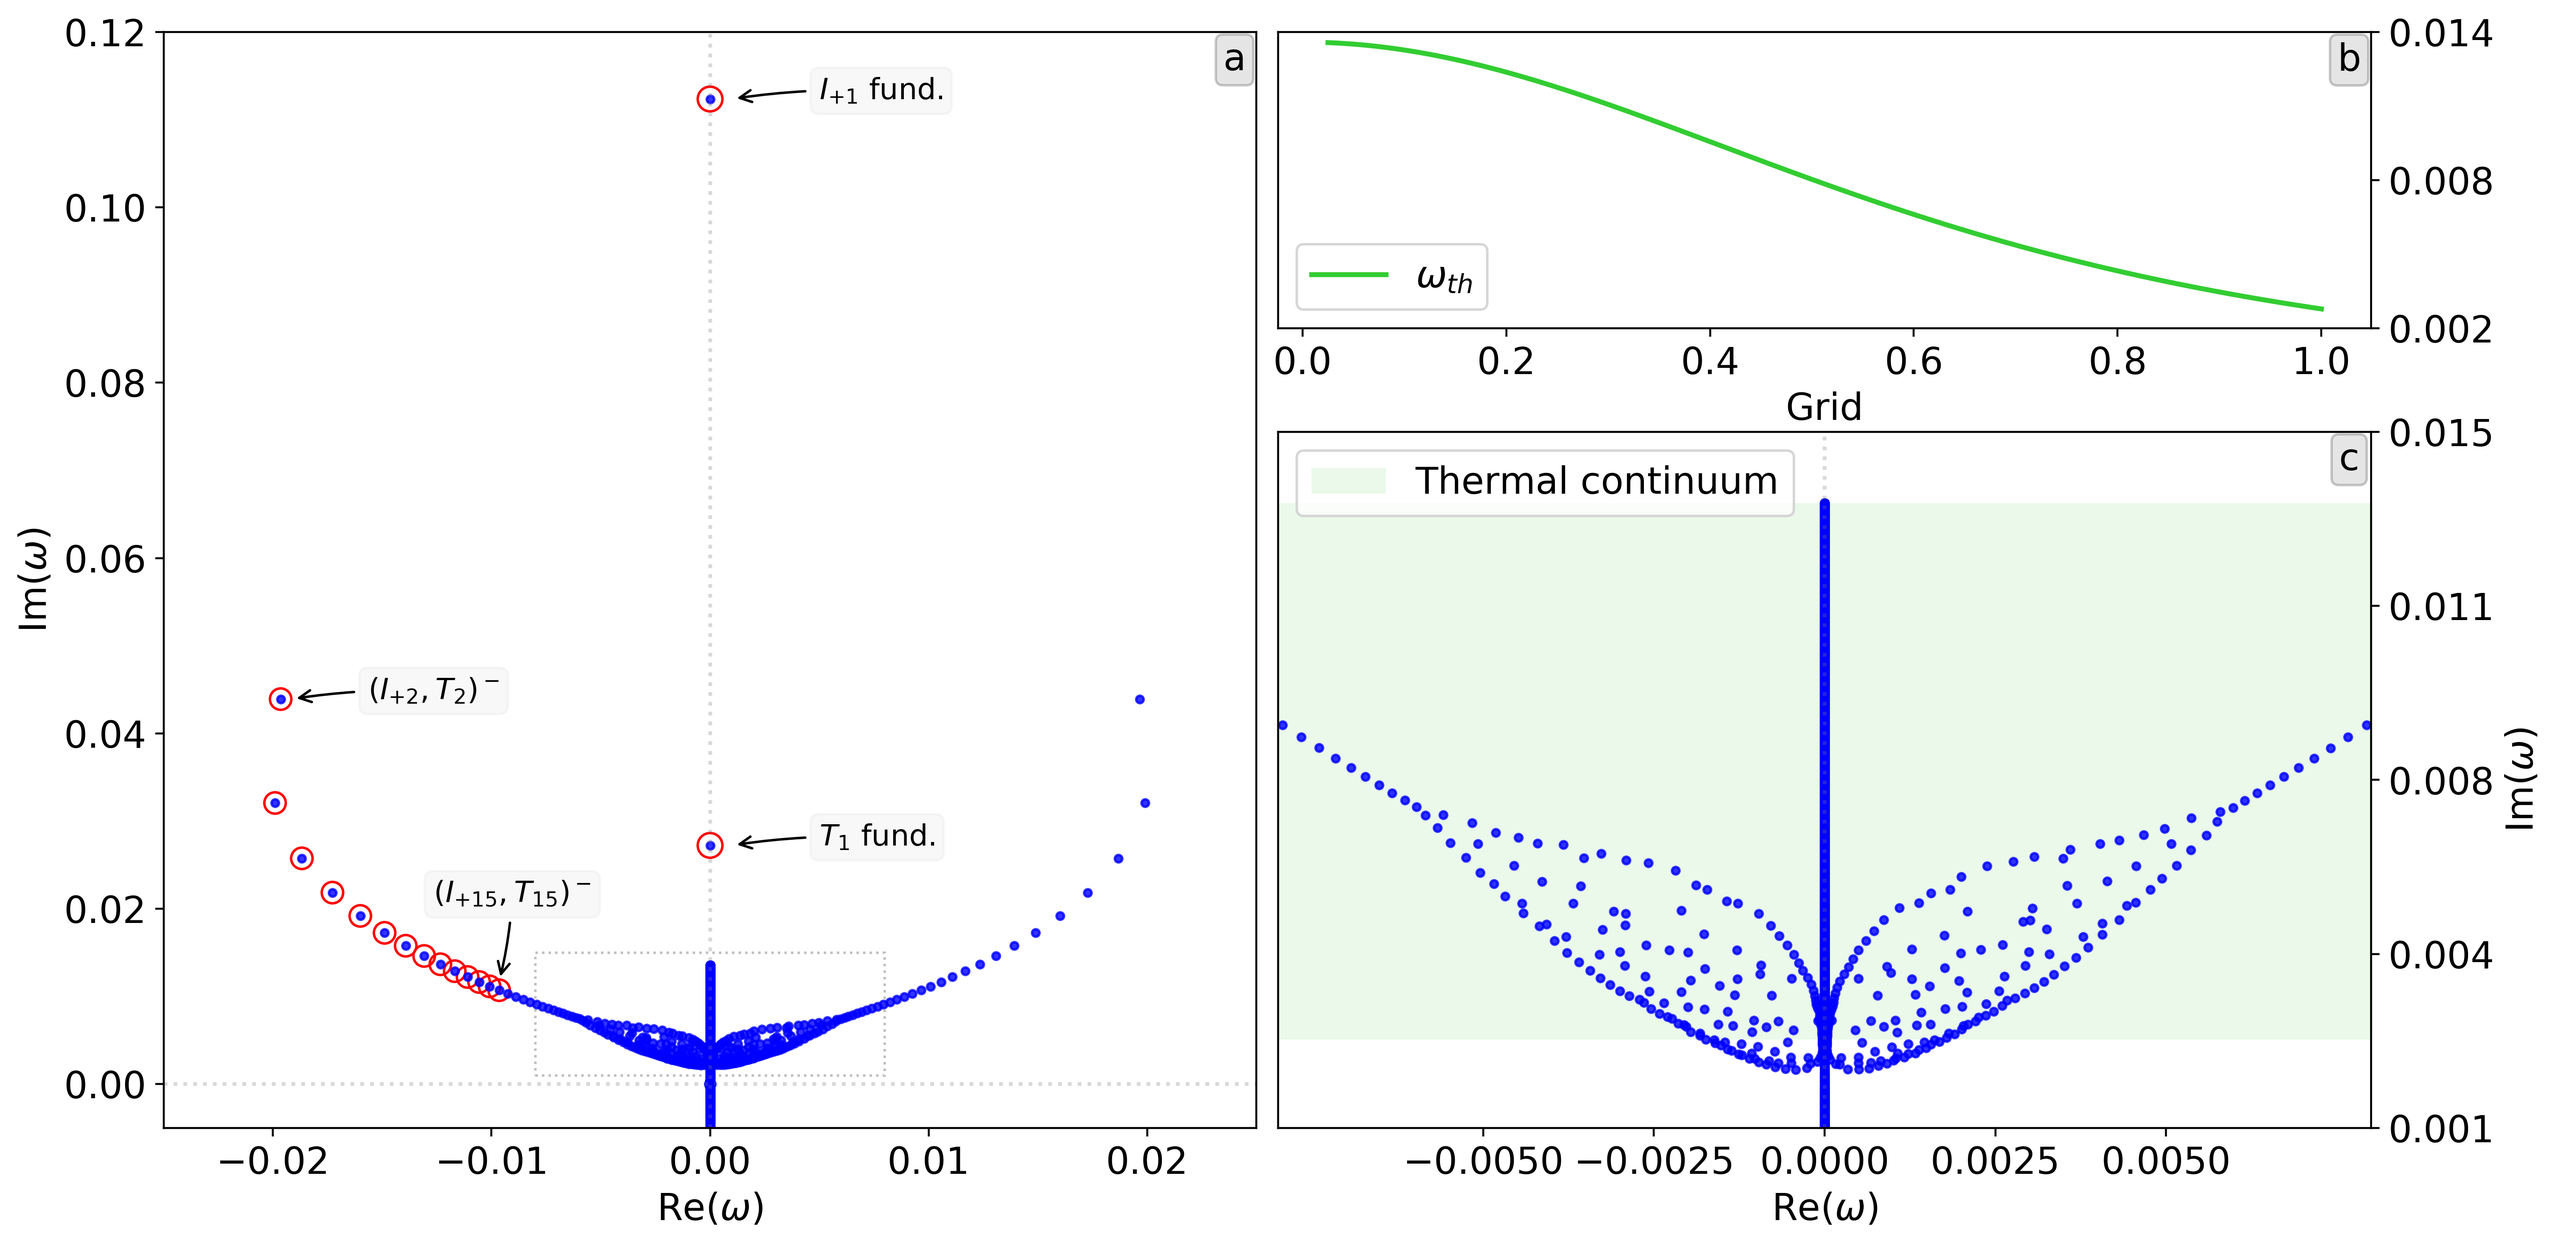
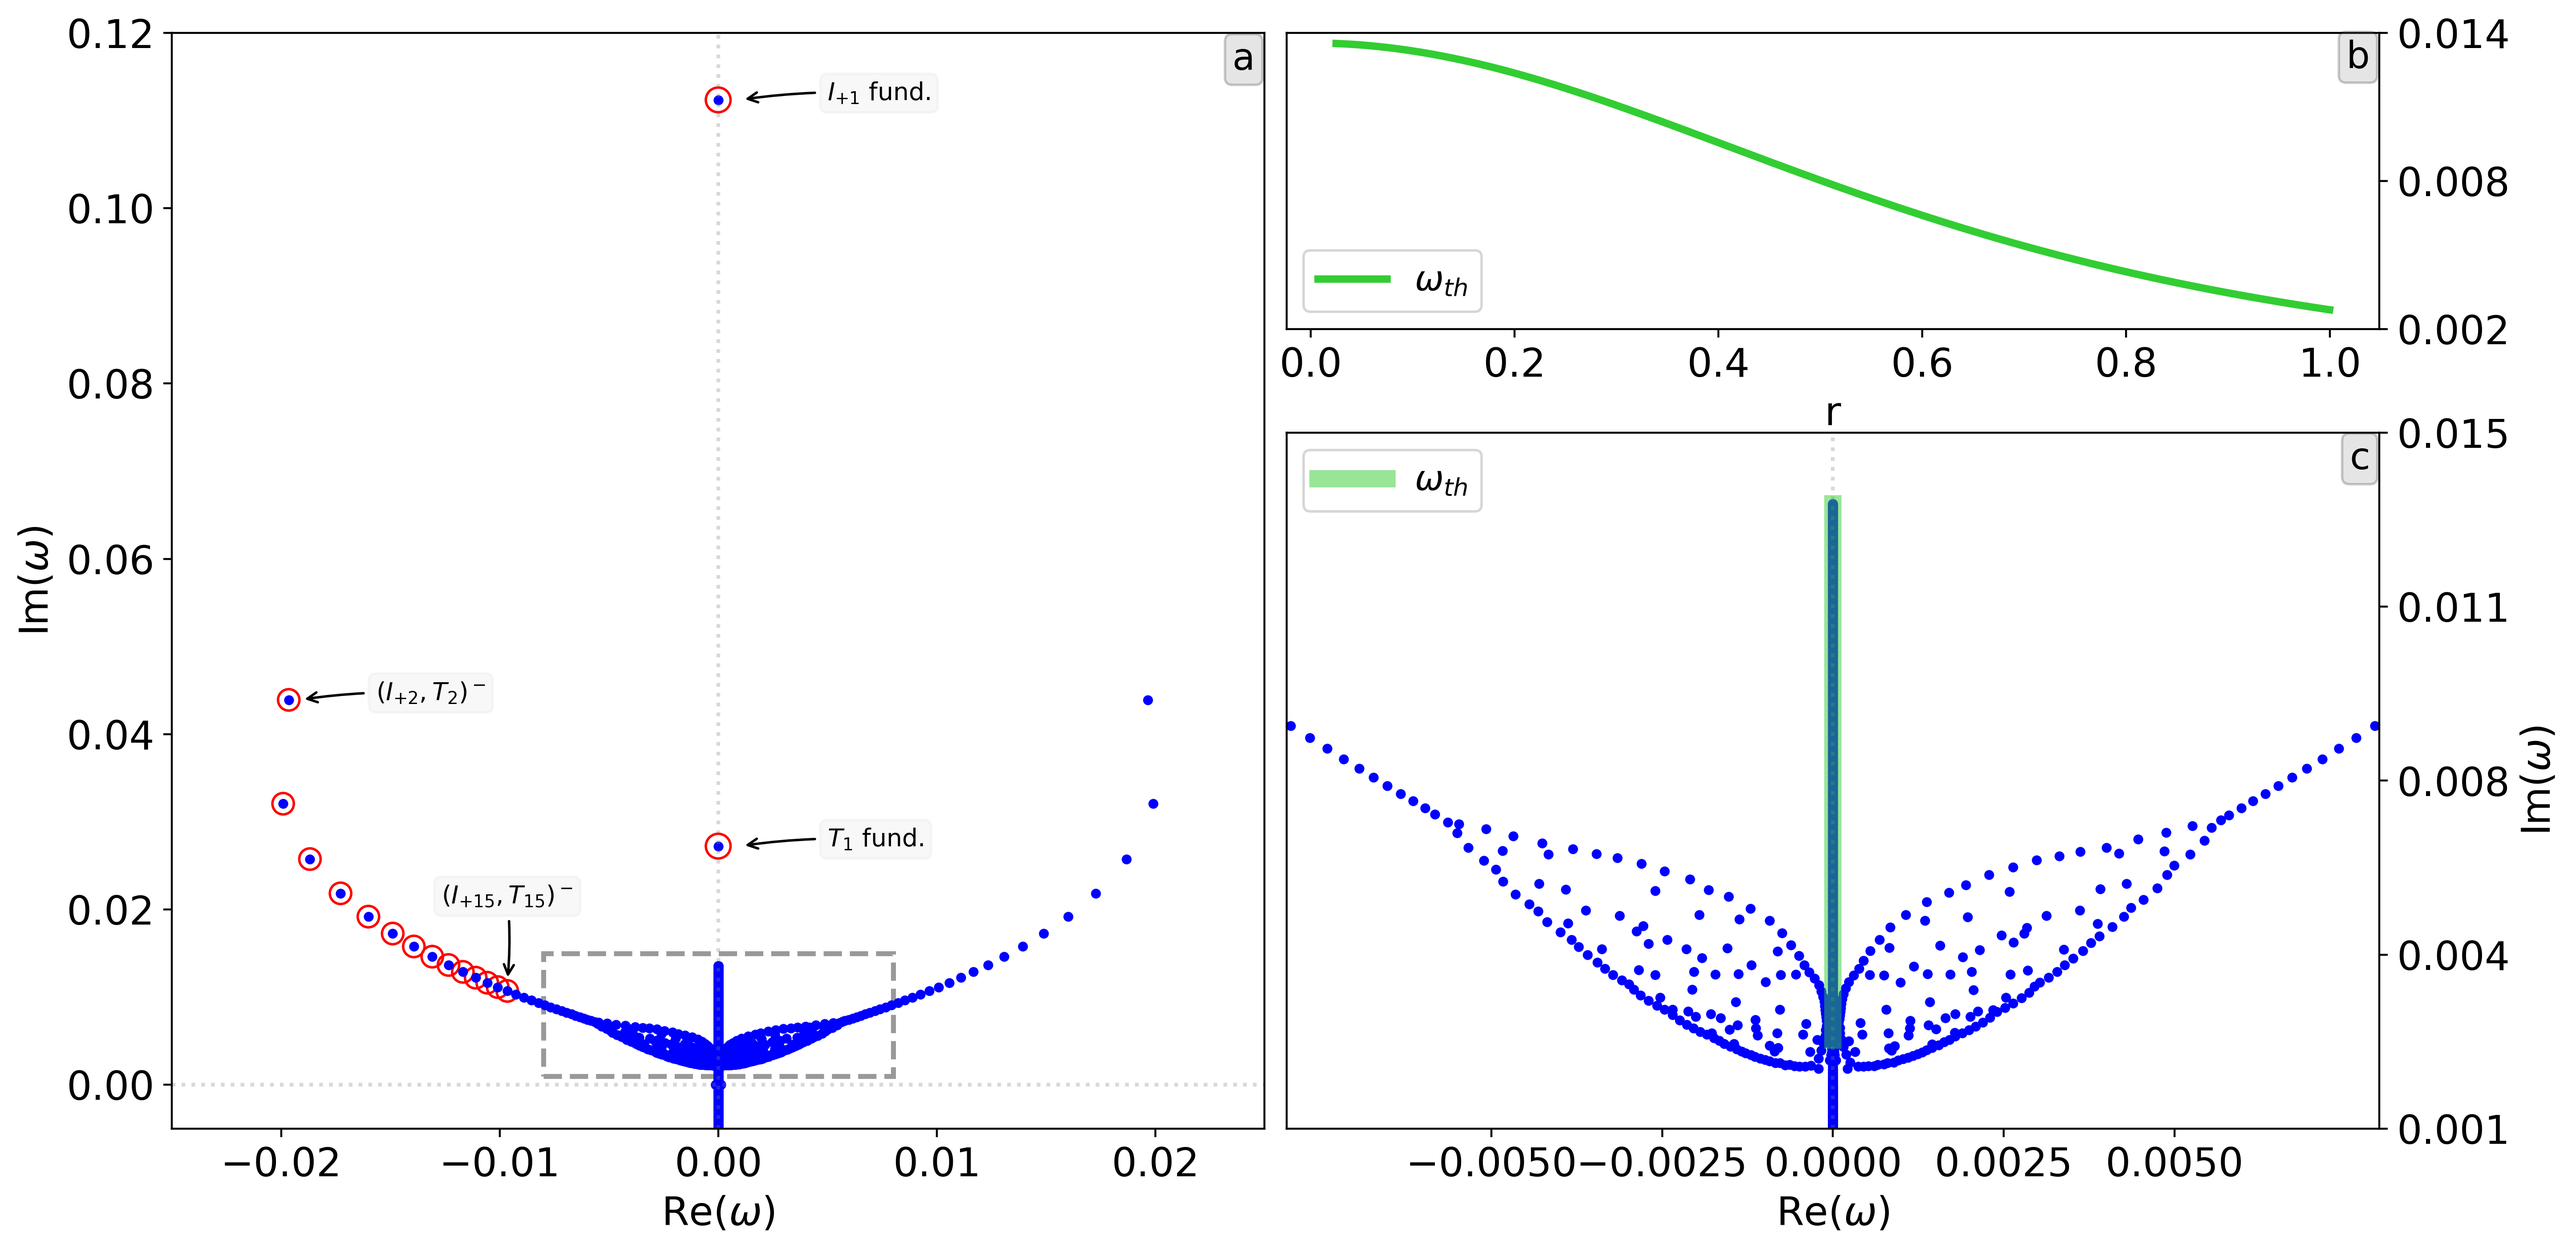
regenerated magnetothermal figure

diff --git a/notebooks/chapter5_figures.py b/notebooks/chapter5_figures.py
@@ -1,3 +1,4 @@
+from matplotlib import ticker
 import numpy as np
 import matplotlib.pyplot as plt
 import matplotlib.patches as patches
@@ -328,9 +329,141 @@ def discrete_alfven_figure():
     )
 
 
+def magnetothermal_figure():
+    filedir = (datadir / "12_magnetothermal/datfiles").resolve()
+    ds = pylbo.load(*sorted(filedir.glob("*.dat")))
+
+    fig, axes = plt.subplots(3, 2, figsize=(16, 8))
+    grid = axes[0, 1].get_gridspec()
+    [ax.remove() for ax in axes[:, 0]]
+    axl = fig.add_subplot(grid[:, 0])
+    [ax.remove() for ax in axes[1:, 1]]
+    axb = fig.add_subplot(grid[1:, 1])
+    axt = axes[0, 1]
+
+    # left plot + bot-right plot
+    for ax in (axl, axb):
+        ax.plot(ds.eigenvalues.real, ds.eigenvalues.imag, ".b")
+        ax.axhline(y=0, linestyle="dotted", color="grey", alpha=0.3)
+        ax.axvline(x=0, linestyle="dotted", color="grey", alpha=0.3)
+        ax.set_xlabel(r"Re($\omega$)")
+        ax.set_ylabel(r"Im($\omega$)")
+    # left plot
+    axl.set_xlim(-0.025, 0.025)
+    axl.set_ylim(-0.005, 0.12)
+    add_panel_label(axl, "a", loc="top right")
+
+    # top-right plot
+    wth = ds.continua["thermal"]
+    axt.plot(
+        ds.grid_gauss, np.imag(wth), lw=3, color="limegreen", label="$\omega_{th}$"
+    )
+    axt.yaxis.tick_right()
+    axt.set_ylim(0.002, 0.014)
+    axt.set_yticks(np.linspace(0.002, 0.014, 3))
+    axt.set_xlabel("r")
+    axt.legend(loc="lower left")
+    add_panel_label(axt, "b", loc="top right")
+
+    # bot-right plot
+    x1, x2, y1, y2 = -0.008, 0.008, 0.001, 0.015
+    patch = patches.Rectangle(
+        (x1, y1),
+        width=(x2 - x1),
+        height=(y2 - y1),
+        facecolor="none",
+        edgecolor="grey",
+        linestyle="dashed",
+        alpha=0.8,
+        lw=2,
+    )
+    axl.add_patch(patch)
+    axb.plot(
+        np.real(wth),
+        np.imag(wth),
+        color="limegreen",
+        lw=7,
+        alpha=0.5,
+        label=r"$\omega_{th}$",
+    )
+    axb.legend(loc="upper left")
+    axb.yaxis.set_label_position("right")
+    axb.yaxis.tick_right()
+    axb.set_xlim(x1, x2)
+    axb.set_ylim(y1, y2)
+    axb.set_xticks(np.linspace(-0.005, 0.005, 5))
+    axb.set_yticks(np.linspace(y1, y2, 5))
+    axb.yaxis.set_major_formatter(ticker.FormatStrFormatter("%.3f"))
+    add_panel_label(axb, text="c", loc="top right")
+
+    # annotating eigenvalues
+    on_axis_guess = [0.112j, 0.027j]
+    _, on_axis_evs = ds.get_nearest_eigenvalues(ev_guesses=on_axis_guess)
+    # annotate the on-axis ones with text
+    on_axis_text = ["$I_{+1}$ fund.", "$T_{1}$ fund."]
+    boxprops = dict(boxstyle="round", color="grey", alpha=0.05)
+    arrowprops = dict(arrowstyle="->", connectionstyle="arc3, rad=0.05")
+    for ev, text in zip(on_axis_evs, on_axis_text):
+        print(f"Eigenvalue found: {ev}")
+        axl.scatter(ev.real, ev.imag, s=100, edgecolor="red", facecolor="none")
+        axl.annotate(
+            text,
+            xy=(ev.real + 0.001, ev.imag),
+            xytext=(0.005, ev.imag),
+            bbox=boxprops,
+            arrowprops=arrowprops,
+        )
+
+    overtones_guess = [
+        -0.0196 + 0.0439j,
+        -0.01991 + 0.032066j,
+        -0.01867 + 0.025752j,
+        -0.017279 + 0.021843j,
+        -0.0160 + 0.0191j,
+        -0.01489 + 0.017255j,
+        -0.01392 + 0.015782j,
+        -0.013082 + 0.014618j,
+        -0.0123 + 0.0136j,
+        -0.01168 + 0.012885j,
+        -0.01109 + 0.012219j,
+        -0.010566 + 0.011647j,
+        -0.0100 + 0.0111j,
+        -0.00965 + 0.010710j,
+    ]
+    idxs, evs = ds.get_nearest_eigenvalues(ev_guesses=overtones_guess)
+    for ev in evs:
+        print(f"Eigenvalue found: {ev}")
+        axl.scatter(ev.real, ev.imag, s=75, edgecolor="red", facecolor="none")
+    text1 = "$(I_{+2}, T_{2})^-$"
+    axl.annotate(
+        text1,
+        xy=(evs[0].real + 0.0005, evs[0].imag),
+        xytext=(evs[0].real + 0.004, evs[0].imag),
+        bbox=boxprops,
+        arrowprops=arrowprops,
+    )
+    text2 = "$(I_{+15}, T_{15})^-$"
+    arrowprops = dict(arrowstyle="->", connectionstyle="arc3, rad=-0.05")
+    axl.annotate(
+        text2,
+        xy=(evs[-1].real, evs[-1].imag + 0.001),
+        xytext=(evs[-1].real - 0.003, evs[-1].imag + 0.01),
+        bbox=boxprops,
+        arrowprops=arrowprops,
+    )
+
+    fig.subplots_adjust(hspace=0.35, wspace=0.02)
+    fig.savefig(
+        "../05-applying_legolas/figures/magnetothermal.png",
+        bbox_inches="tight",
+        dpi=400,
+    )
+
+
 def main():
     # quasi_parker_figure()
-    discrete_alfven_figure()
+    # discrete_alfven_figure()
+    magnetothermal_figure()
 
 
 if __name__ == "__main__":
